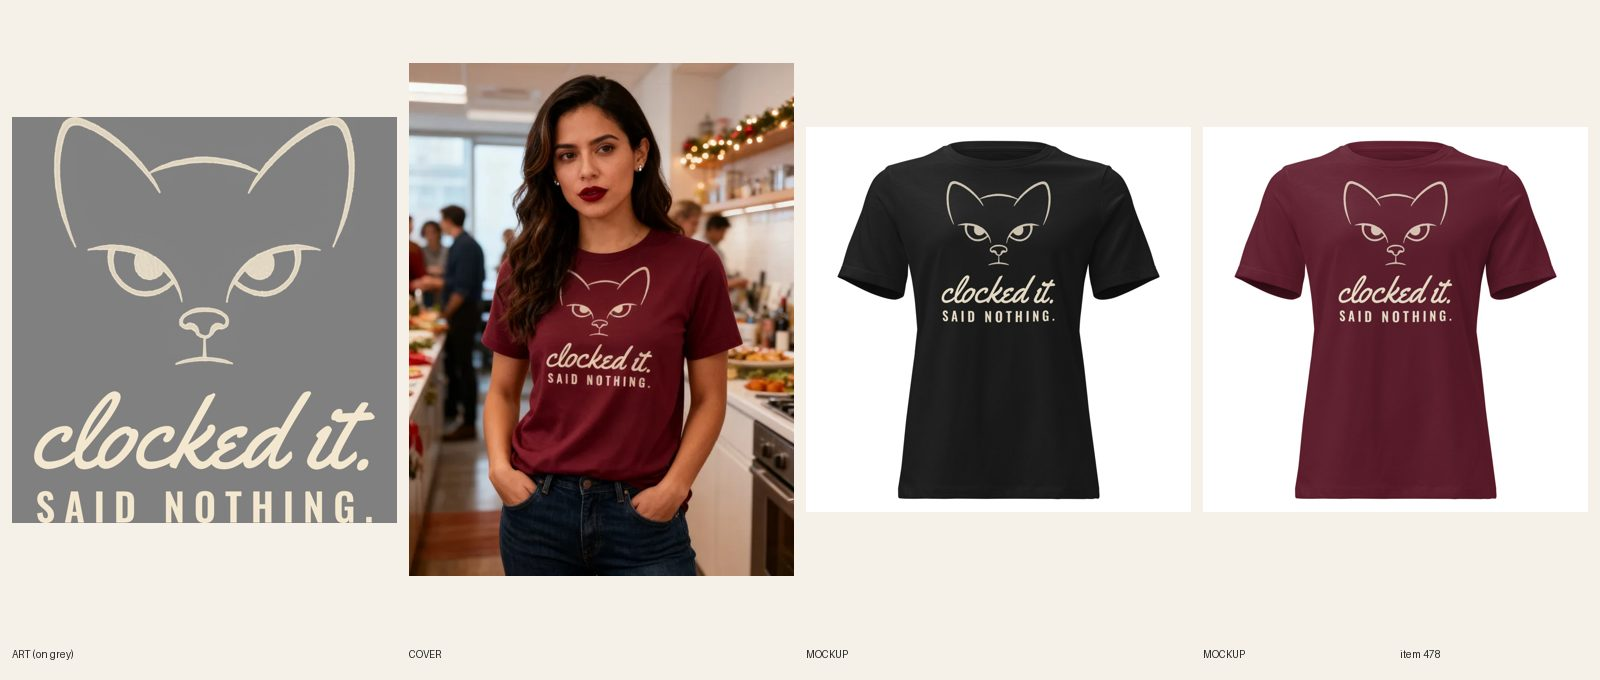
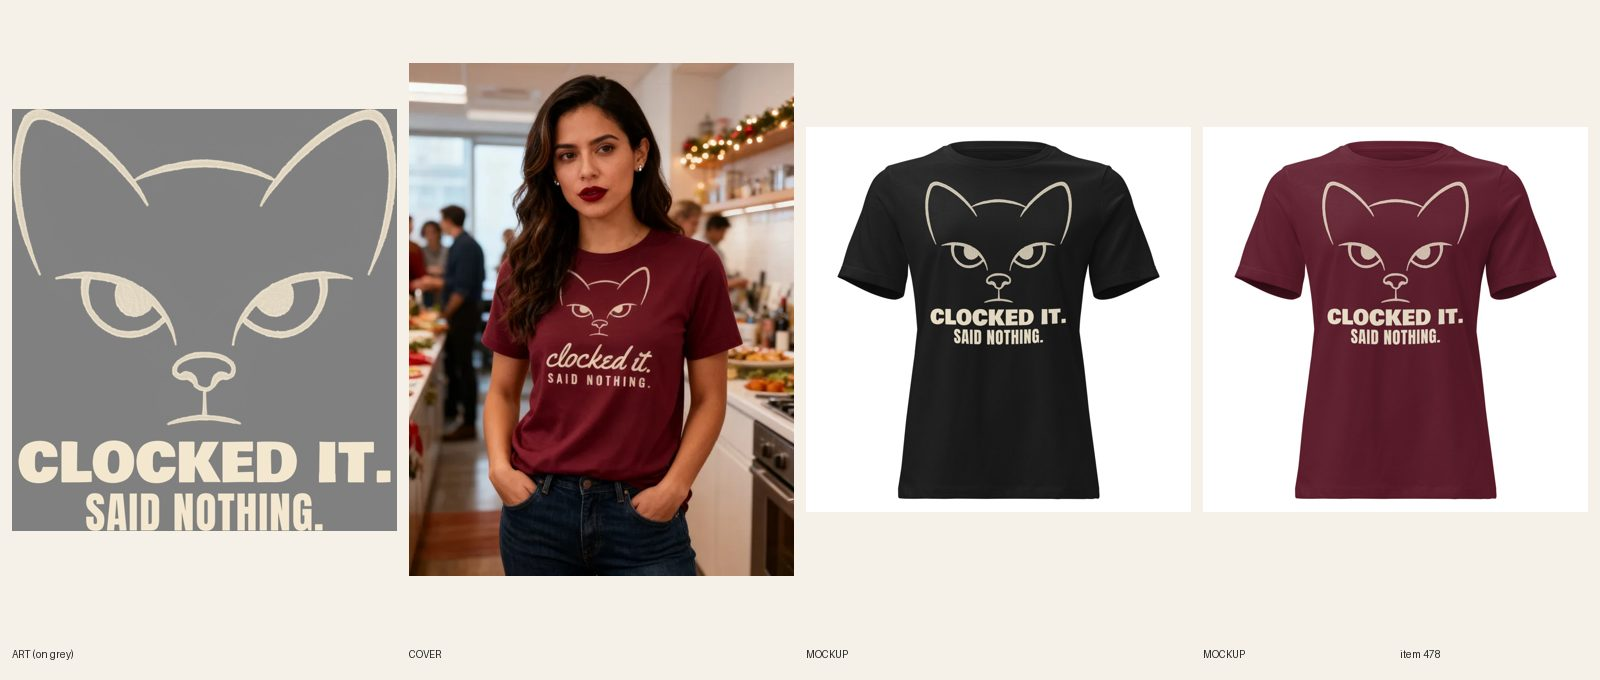
[A] review 478 Clocked It tee (type redo)
Claude-Session: https://claude.ai/code/session_01LxSZyvFUoSHyzqx6WLNPcu

Changed region(s): [[0.0, 0.1544, 0.25, 0.8029], [0.8125, 0.2471, 0.9062, 0.525], [0.5625, 0.2471, 0.6562, 0.525]]

diff --git a/designs/a478/make.py b/designs/a478/make.py
@@ -1,0 +1,28 @@
+from PIL import Image, ImageDraw, ImageFont
+src=Image.open('designs/first5/clocked-print.png').convert('RGBA')
+cat=src.crop((0,0,3000,1990)); cat=cat.crop(cat.getbbox())
+CREAM=(243,231,207,255)
+def line(text,font,size,maxw,track=0.0):
+    while True:
+        f=ImageFont.truetype('designs/fonts/'+font,size)
+        adv=[f.getlength(c) for c in text]; t=int(size*track)
+        tot=int(sum(adv)+t*(len(text)-1))
+        if tot<=maxw: break
+        size=int(size*0.97)
+    asc,desc=f.getmetrics()
+    im=Image.new('RGBA',(tot+200,asc+desc+100),(0,0,0,0)); d=ImageDraw.Draw(im); x=100
+    for c,a in zip(text,adv):
+        d.text((x,50),c,font=f,fill=CREAM); x+=a+t
+    return im.crop(im.getbbox())
+W=cat.width
+h1=line('CLOCKED IT.','BowlbyOne-Regular.ttf',900,int(W*1.0))
+h2=line('SAID NOTHING.','Anton-Regular.ttf',700,int(W*0.62),0.03)
+print(cat.size,h1.size,h2.size,h2.height/h1.height)
+gap=90
+H=cat.height+gap+h1.height+60+h2.height
+out=Image.new('RGBA',(W,H),(0,0,0,0)); y=0
+out.alpha_composite(cat,(0,0)); y=cat.height+gap
+out.alpha_composite(h1,((W-h1.width)//2,y)); y+=h1.height+60
+out.alpha_composite(h2,((W-h2.width)//2,y))
+out.save('designs/a478/print.png'); print(out.size)
+bg=Image.new('RGBA',out.size,(25,25,25,255)); bg.alpha_composite(out); bg.convert('RGB').resize((600,int(600*H/W))).save('/tmp/claude-0/-home-user-graphicteesco/b5199641-8ecc-5c6a-923b-7ecc9222cdc8/scratchpad/p478.png')

diff --git a/docs/pipeline/478-clocked-it-tee.md b/docs/pipeline/478-clocked-it-tee.md
@@ -1,4 +1,4 @@
-status: BUILDING [A] 2026-10-19 19:30
+status: REVIEW
 shopify: gid://shopify/Product/15363973579056
 lane: A
 type: new
@@ -26,3 +26,4 @@ kd: 20
 - 2026-10-17 18:37 UTC builder [A]: REVIEW. Printful sync pid 482544082 synced 36/36 (print file 1088387002, FW 1350/TOP 75). Every color has its own mockup attached to its variants + back logo view. FAQ 5 x 48-53 words incl. Dec 8 order-by. Registry #684; Maroon cover try 1 (1 fal image ~$0.04): all words read; wine-type bottles faintly on a far counter, no alcohol in hand, left as is. Audit passes except not-active; sheet docs/review/478.jpg. design-crops/variant-photo scripts cover published products only, rerun when ACTIVE.
 - 2026-10-17 19:13 UTC director: approved. ACTIVE, published to Online Store + Headless + Google & YouTube; audit --handle PASS (0 warn). LIVE.
 - 2026-10-18 17:22 UTC director: QUALITY RESET grade B (type only), REDO. The product stays ACTIVE (same handle, URL, title keyword). Keep the line "clocked it. / SAID NOTHING." and the art. 1. Type: line works; "clocked it." is a thin script, SAID NOTHING small spaced caps. 2. Quality reset type bar (docs/backlog/quality-reset.md, 'The new bar'): headline at least 90% of the art width, heavy, colors pulled from the art; second line at least 45% of the headline's height, never a thin script on a dark or mid garment; use the lettering as a shape (arch, stacked lockup, words breaking into the art), not a plain bar above and a script line below; no font used on more than 1 in 6 of the last 30 designs. 3. New print file means a new cover per R6.10 and a fresh review sheet (R7.7). While quality-reset.md says PAUSED, only lane A builds, and only the samples step 2 names.
+- 2026-10-19 19:45 UTC builder [A]: REDO type-only done (director grade B). Same cat linework (cropped from designs/first5/clocked-print.png), new print designs/a478/make.py: CLOCKED IT. in Bowlby One cream at full art width + SAID NOTHING. in Anton cream at 62% width (89% of headline height); stacked lockup under the cat, print 2352x2578, FW 1500 (6400 area is 1500 wide) TOP 75, Printful file 1089777092, back logo 1080398177 kept. Dark colors only, cream fill reads on all six, so no light file needed (R5.3.8). Relinked 36/36 on 1089777092. 6 fronts replaced in place (fileUpdate); phone-size read ok on Black, Maroon, Navy, Forest, Dark Grey Heather, Military Green. Copy: Story lettering sentence + FAQ 2 updated; FAQs 5, Dec 8 kept. Plain product shot (handle added to retired-covers.json). audit --handle PASS 0 warn. fal $0. Sheet docs/review/478.jpg.

diff --git a/docs/intake-log.md b/docs/intake-log.md
@@ -1,5 +1,5 @@
 RUNNING lane B since 2026-10-19 19:40 UTC
-RUNNING lane A since 2026-10-19 19:30 UTC
+2026-10-19 19:48 UTC — [A] Builder run: redid #478 Women's Clocked It tee (type only: Bowlby One cream CLOCKED IT. at full art width + Anton SAID NOTHING. stacked under the same cat linework, FW 1500 (6400 area width), file 1089777092, 36/36 relinked, 6 fronts replaced in place, copy updated, plain product shot). REVIEW. fal $0. Lock released.
 2026-10-19 19:40 UTC — [B] Builder run: redid #521 Mimi Says Yes crewneck (type only: Bowlby One red MIMI full width + Anton navy SAYS YES., same art, FW 1650, file 1089777309, 12/12 resynced, 2 fronts replaced in place, copy updated, plain product shot). REVIEW. fal $0. Lock released.
 2026-10-19 20:00 UTC — [C] Builder run: redid #562 Women's Mimi Says Yes hoodie (type only: MIMI full-width heavy red Bowlby + SAYS / YES. stacked navy in the art void, same art at 80%, FW 1500 TOP 20, file 1089778631, 12/12 relinked, 2 fronts replaced in place, copy updated, plain product shot). REVIEW. fal $0. 1 redo per run cap reached. Lock released.
 RUNNING lane E since 2026-10-19 19:15 UTC
